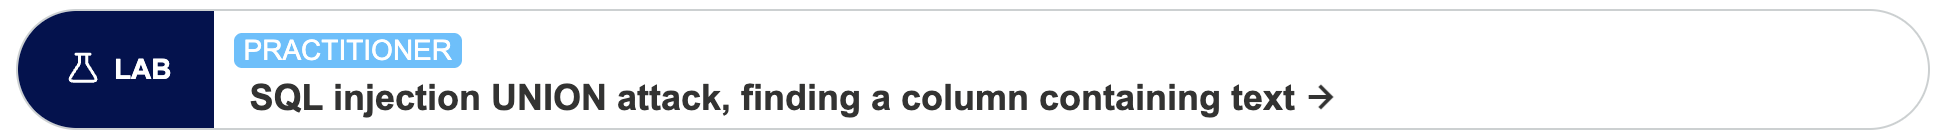
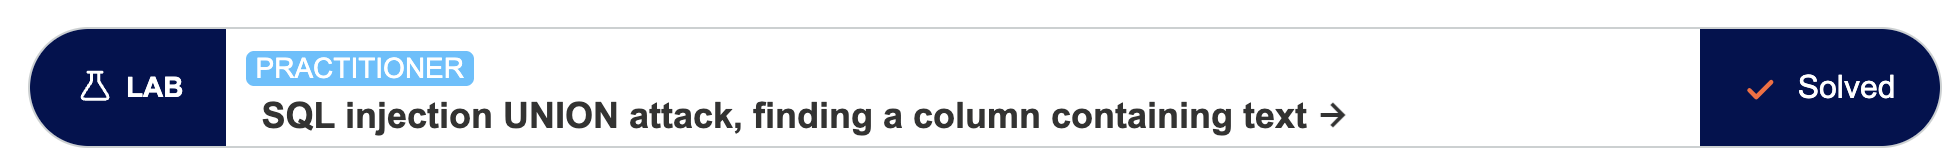
Add UNION retrieve other data lab

Changed region(s): [[0.0, 0.0571, 1.0, 0.9429]]

diff --git a/01_sql_injection/UNION_retrieve_other_data/README.md b/01_sql_injection/UNION_retrieve_other_data/README.md
@@ -1,0 +1,25 @@
+# Write-up: SQL injection UNION attack, retrieving data from other tables @ PortSwigger Academy
+
+![Lab title](img/title.png)
+
+Lab-Link: <https://portswigger.net/web-security/sql-injection/union-attacks/lab-retrieve-data-from-other-tables>  
+Difficulty: PRACTITIONER
+
+![Lab description](img/description.png)
+
+## Exploitation
+I start by determining how many columns the product category filter query returns and which ones can hold text, as they will need to hold a list of usernames and passwords. Using methods from previous labs, I figure out that the query returns 2 columns, both of which can hold text.
+
+Next, I draft a payload that will allow me to attach the desired data into the product retrieval results. By injecting the following text, I am able retrieve data from the `users` table:
+
+![Payload](img/payload.png)
+
+Reminder that the injected payload must be encoded (i.e. `'+UNION+SELECT+username,+password+from+users--`) so that the URL can interpret it; Burp Suite does this for you. The success of this injection is validated by the updated page displaying usernames and passwords among the products.
+
+![Page results](img/page_results.png)
+
+Now I am able to log in with the administrator credentials.
+
+![Login as administrator](img/login.png)
+
+![Success banner](img/success.png)
